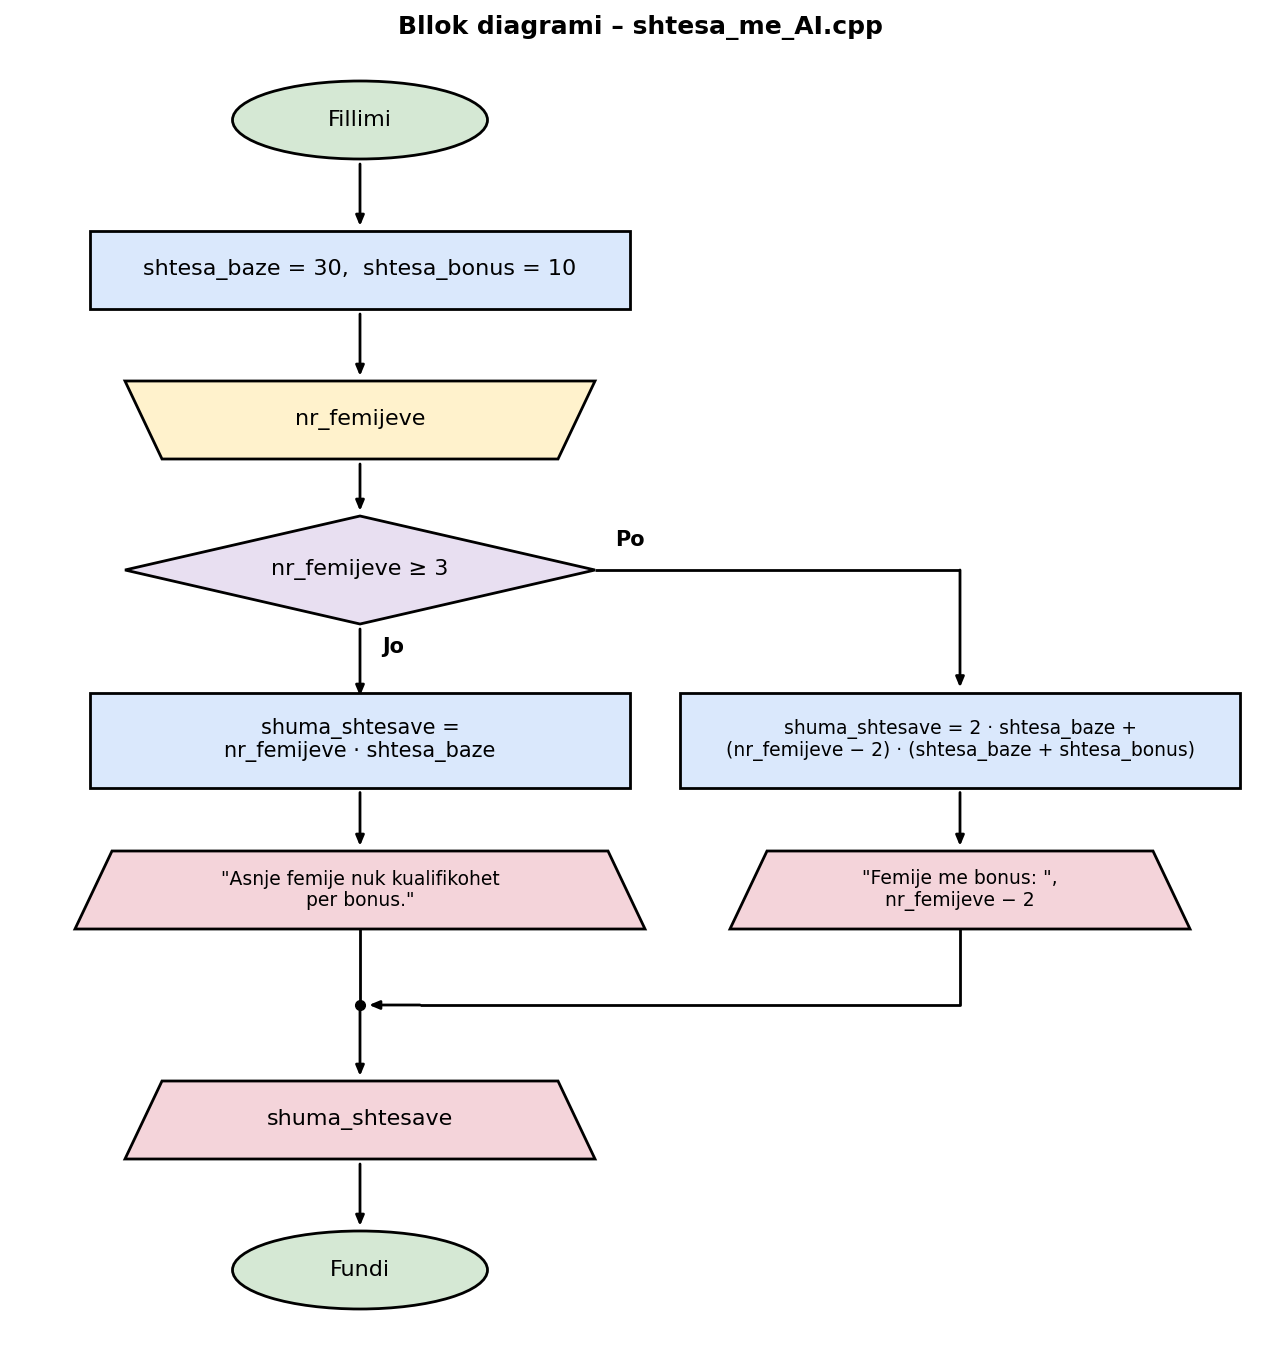
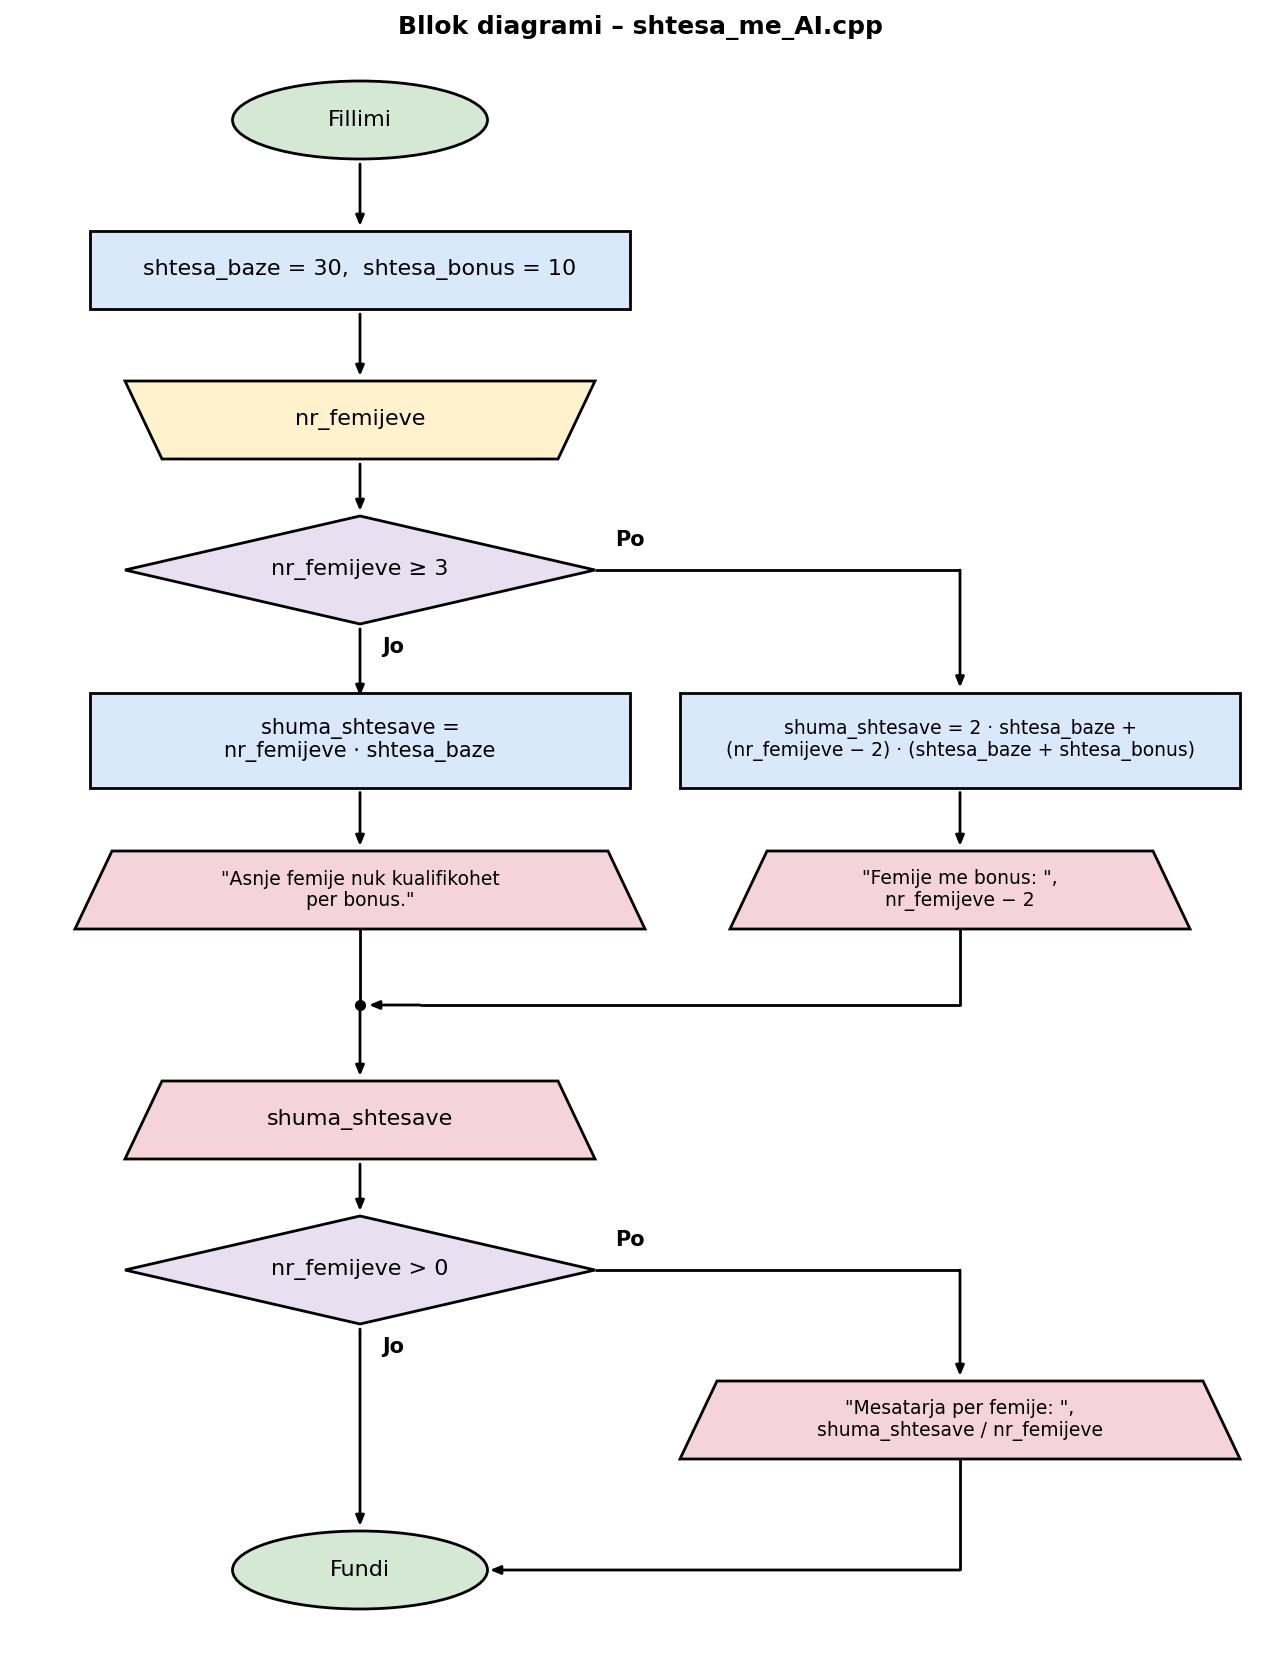
Shto mesataren për fëmijë te shtesa_me_AI dhe përditëso bllok diagramin

diff --git a/shtesa_me_AI.cpp b/shtesa_me_AI.cpp
@@ -15,5 +15,7 @@ int main(){
         cout<<"Asnje femije nuk kualifikohet per bonus.\n";
     }
     cout<<"Shuma totale shtesave eshte: "<<shuma_shtesave<<"\n";
+    if(nr_femijeve>0)
+        cout<<"Mesatarja per femije: "<<shuma_shtesave/nr_femijeve<<"\n";
     return 0;
 }

diff --git a/README.md b/README.md
@@ -26,7 +26,7 @@ Për secilin program ka edhe një **bllok diagram** (skedar `.png`) që tregon h
 | `bursa_me_AI_bllok_diagrami.png` | Bllok diagrami i programit `bursa_me_AI.cpp`. |
 | `shtesa.cpp` | Lexon numrin e fëmijëve dhe me `if – else` llogarit shumën e shtesave: 30 për secilin fëmijë, ndërsa nga fëmija i tretë e tutje secili fiton edhe një bonus prej 10. |
 | `shtesa_bllok_diagrami.png` | Bllok diagrami i programit `shtesa.cpp`. |
-| `shtesa_me_AI.cpp` | Zgjerim i shembullit të mëparshëm: në secilën degë të `if – else` shfaq edhe një mesazh, sa fëmijë fitojnë bonus ose që asnjë fëmijë nuk kualifikohet për bonus. |
+| `shtesa_me_AI.cpp` | Zgjerim i shembullit të mëparshëm: në secilën degë të `if – else` shfaq edhe një mesazh, sa fëmijë fitojnë bonus ose që asnjë fëmijë nuk kualifikohet për bonus. Në fund, nëse ka së paku një fëmijë, shfaq edhe mesataren e shtesës për fëmijë. |
 | `shtesa_me_AI_bllok_diagrami.png` | Bllok diagrami i programit `shtesa_me_AI.cpp`. |
 
 ## Si të ekzekutohen shembujt
